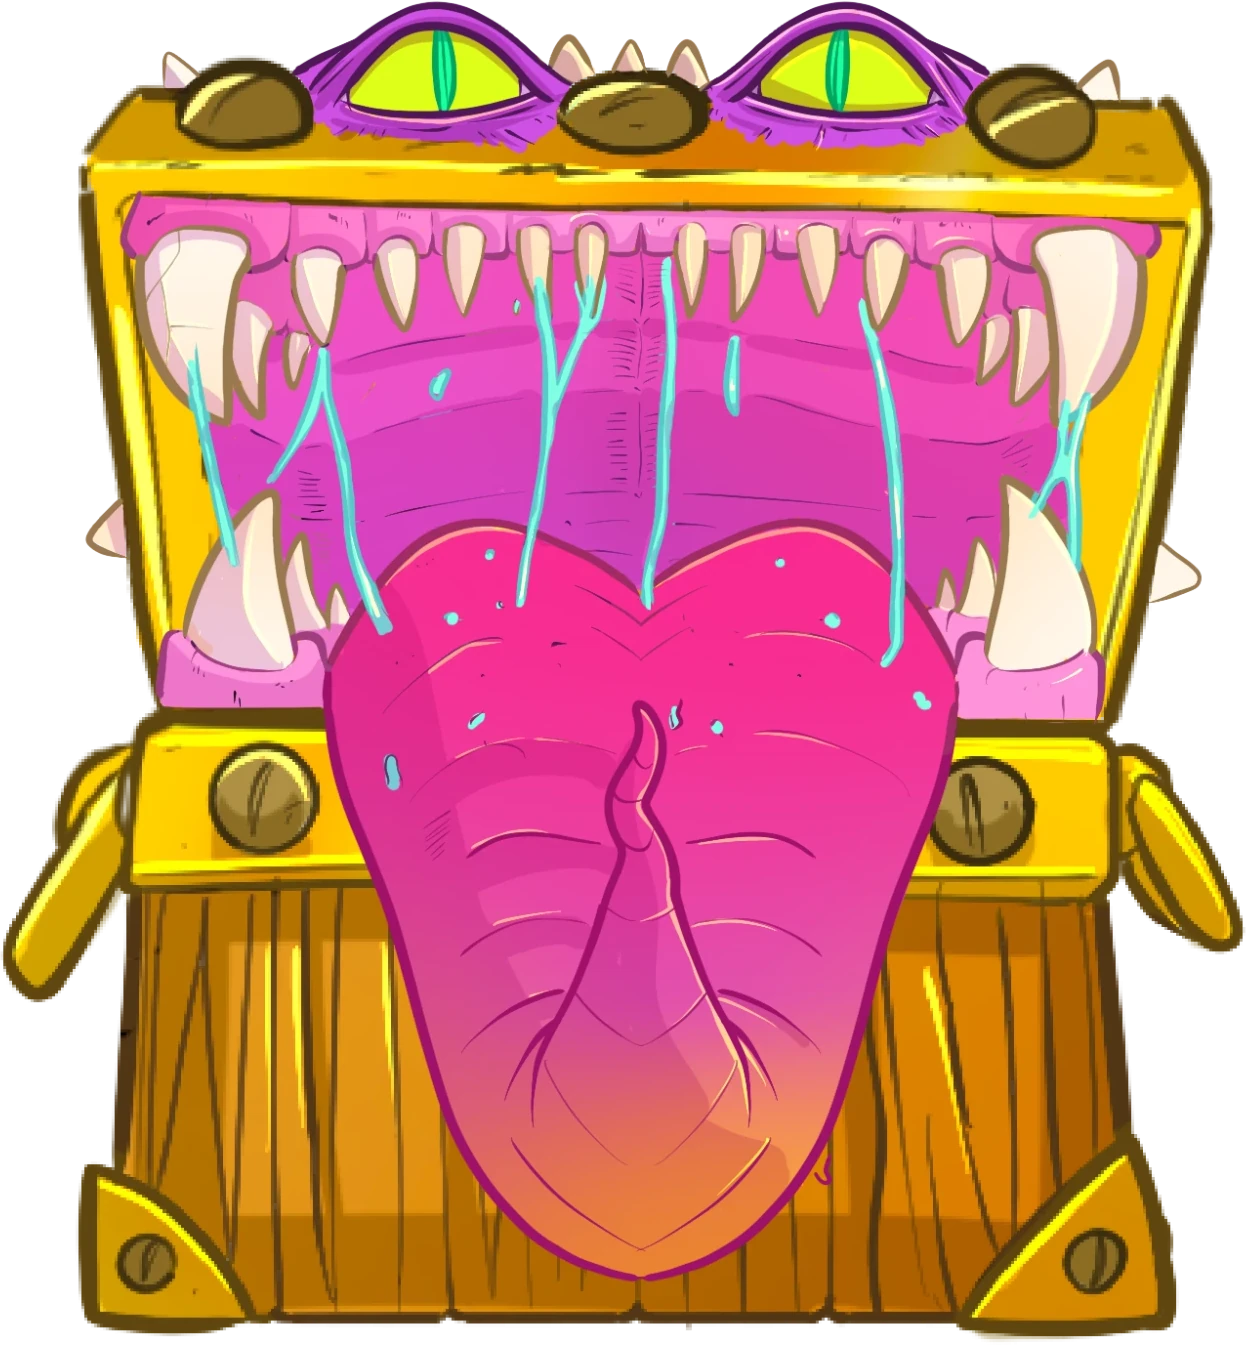
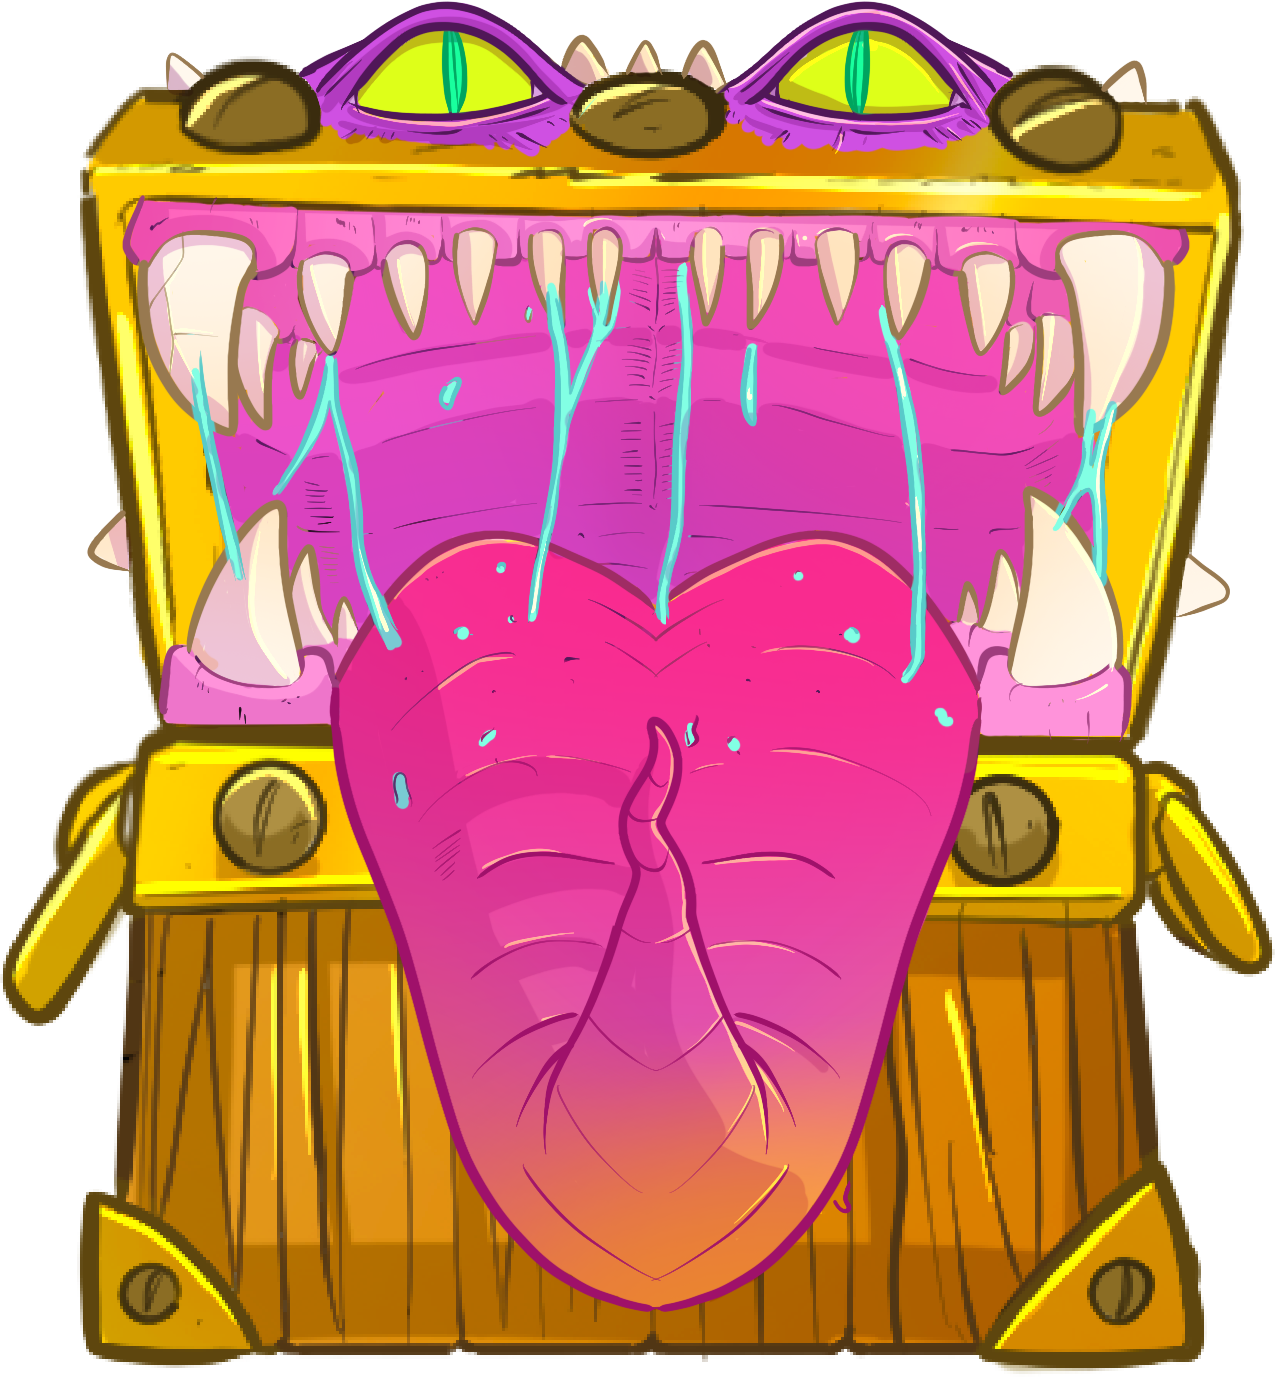
feat: décors du camp et du jeu en 2400×1080, Mimic en lossless
Le camp, sa version floue et le ciel du jeu repartent de sources en
2400×1080, en webp qualité 95 : à 2000×900 ils étaient agrandis et flous.
Le Mimic passe en lossless, rogné, comme les deux autres coffres.

diff --git a/CLAUDE.md b/CLAUDE.md
@@ -78,7 +78,7 @@ Pourquoi : sans cette table, chacun retraduit à sa façon et le même concept f
 
 - Toute image fournie passe d'abord par `cleanimage` (alias de [`scripts/img-trim-webp.sh`](scripts/img-trim-webp.sh)) : rognage de la marge transparente, conversion en webp lossless. Jamais un PNG brut dans `public/`. Une image du camp arrive sur un calque 1920×1080 : la position se lit sur la boîte rognée (`magick <img> -format '%@' info:`), puis se vérifie sur le décor.
 - Un décor plein écran (camp, cadre de jeu, porte de boss) est en **20:9** (ex. 2000×900 ou 2400×1080) : une scène 16:9 au centre, élargie sur les côtés. Ce qui compte tient dans les 72 % du centre (ce qu'un écran 16:10 garde) ; les côtés sont du décor qu'on peut perdre, jamais le haut ni le bas. Un objet posé dessus se place en % de la scène 16:9 du centre (`BACKDROP_SCENE`, `utils/backdrop.ts`), aux coordonnées relevées sur son calque 1920×1080, sans conversion.
-- Exception au lossless : les **décors plein écran** (camp, portes de boss...) sont en webp **avec perte, qualité 95** (`magick <img> -quality 95 <out>.webp`, sans `cleanimage` : rien à rogner sur un décor 20:9). Une transparence (l'arche vide d'une porte) reste nette : webp garde l'alpha sans perte. La porte de la Lune passe ainsi de 1,22 Mo à 430 Ko, sans différence visible sur un décor peint. Les décors du camp, `cooldown-bg.webp` et sa version floue `blurry-cooldown-bg.webp`, sont encore en qualité 85, l'ancienne norme : à repasser en 95 quand leur source revient. Un objet détouré, posé par-dessus, reste lossless.
+- Exception au lossless : les **décors plein écran** (camp, portes de boss...) sont en webp **avec perte, qualité 95** (`magick <img> -quality 95 <out>.webp`, sans `cleanimage` : rien à rogner sur un décor 20:9). Une transparence (l'arche vide d'une porte) reste nette : webp garde l'alpha sans perte. La porte de la Lune passe ainsi de 1,22 Mo à 430 Ko, sans différence visible sur un décor peint. La version floue du camp, `blurry-cooldown-bg.webp`, se tire de `cooldown-bg.webp` : même source, `-blur 0x4.8` (en 2400×1080), qualité 95. Un objet détouré, posé par-dessus, reste lossless.
 - Une image du jeu courant va sous `public/` (hors `images/boss/`) : l'**écran de chargement** (`assetsLoadingScreen`, voir le glossaire de [`specs/spec.md`](specs/spec.md)) l'attend d'office, rien à déclarer.
 - Une image qui ne s'affiche que dans les phases d'un boss (porte, introduction, combat, épreuves) va dans le dossier de son étage, `public/images/boss/<étage>/` : l'écran du jeu ne l'attend pas, l'**écran de chargement du boss** (`bossAssetsLoadingScreen`) l'attend d'office à l'arrivée devant sa porte.
 - Pourquoi : sans préchargement, les animations d'entrée (`drop-in` du cadre de jeu, `camp-rise` du Grimoire) se jouent avant que leur image arrive. Et chaque image ajoutée allonge l'écran à la première visite.
